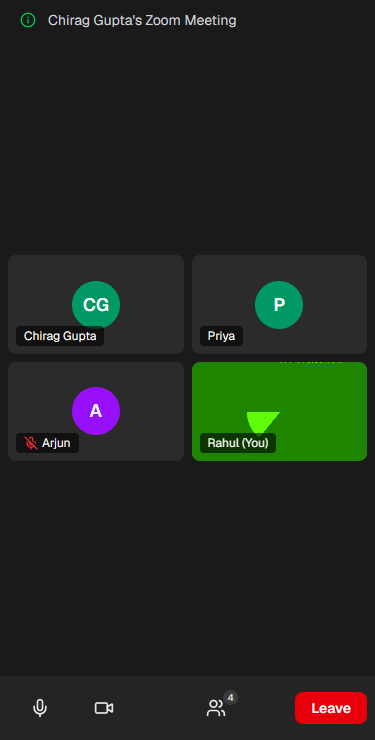
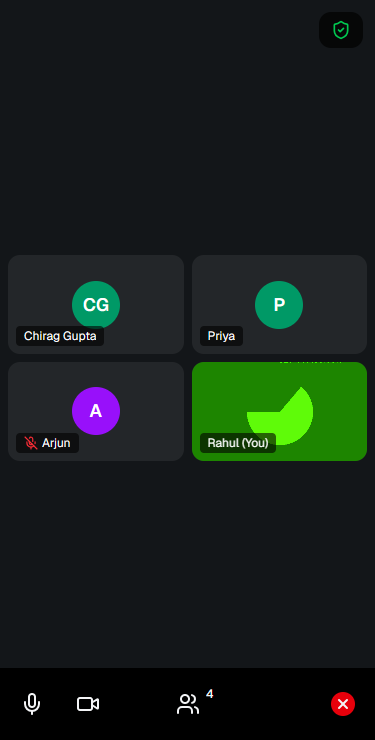
docs: README screenshots and features for the Zoom Workplace look

diff --git a/README.md b/README.md
@@ -15,7 +15,8 @@ A Zoom-style video meetings web app: a dashboard, instant and scheduled meetings
 - **Join**: by meeting ID (`842 1397 6502`, dashes or spaces are fine) or a pasted invite link, which fills in the passcode. Display name and passcode are required. The backend checks the meeting exists, the passcode matches and the meeting hasn't ended.
 - **Schedule**: topic, description, date, time and duration. Stored in UTC, shown in local time under Upcoming, with a **Start** button.
 - **Meeting room**: pre-join preview with mic and camera toggles, your own webcam via `getUserMedia`, everyone else as avatar tiles, a Zoom bottom toolbar, a participants panel, and the live roster (joins, leaves, mute and camera state) over a FastAPI WebSocket
-- **Host controls (bonus)**: Mute All, Remove participant (they can't rejoin under the same name), End Meeting for All
+- **Host controls (bonus)**: Mute All (toolbar **Host tools** or the participants panel); mute or remove one person from the participants panel or by hovering their video tile (removed people can't rejoin under the same name); End Meeting for All
+- **Zoom Workplace look**: dark theme modelled on the current Zoom app (top bar and side rail, big clock, meetings card with Upcoming / Recent tabs, black meeting toolbar with Host tools and the red End button)
 - **Responsive (bonus)**: works at phone width; the participants panel becomes a full-screen sheet
 - **No auth**: one seeded default user is always "logged in" and hosts every meeting they create
 
